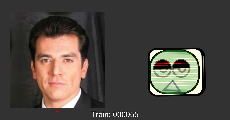
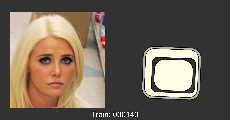
change to front view

diff --git a/face.js b/face.js
@@ -42,10 +42,10 @@ function Face() {
   this.lipColour = [136, 68, 68];
   this.eyebrowColour = [59, 95, 120];
 
-  this.screenRed = [255, 15, 115, 70];
-  this.screenGreen = [38, 145, 40, 80];
-  this.screenBlue = [15, 107, 255, 70];
-  this.colorPick = [this.screenRed, this.screenGreen, this.screenBlue];
+  this.screenRed = [255, 15, 115];
+  this.screenGreen = [38, 145, 40];
+  this.screenBlue = [15, 107, 255];
+  this.colorOption = [this.screenRed, this.screenGreen, this.screenBlue];
   this.colorSwitch = 2;
 
   
@@ -83,7 +83,7 @@ function Face() {
     rectMode(CENTER);
     
     stroke(stroke_color);
-    strokeWeight(0.14);
+    strokeWeight(0.04);
     fill(this.mainColour);
 
     push();
@@ -107,22 +107,28 @@ function Face() {
     // rect(segment_average(positions.chin)[0]+1.4, 0, 3.6, 3, 0.9);
     // rect(segment_average(positions.chin)[0]+1, 0, 3.6, 3.5, 0.5);
     push();
-    translate(this.headOffset*0.22, 0);
+    // translate(this.headOffset*0.18, 0);
     fill(184, 182, 163);
+    rect(this.headPosX, this.headPosY, this.headWidth*1.2, this.headHeight*1.25*1.2, this.roundCorner*1.2);
+    pop();
+
+    push();
+    // translate(this.headOffset*0.12, 0);
     rect(this.headPosX, this.headPosY, this.headWidth*1.1, this.headHeight*1.25*1.1, this.roundCorner);
     pop();
 
     push();
-    translate(this.headOffset*0.15, 0);
-    rect(this.headPosX, this.headPosY, this.headWidth*1.1, this.headHeight*1.25*1.1, this.roundCorner * 0.9);
+    // strokeWeight(0.1);
+    // translate(this.headOffset*0.12, 0);
+    fill(50,50,50);
+    rect(this.headPosX - this.headOffset*0.05, this.headPosY - this.headOffset*0.05, this.headWidth*0.9, this.headHeight, this.roundCorner * 0.6);
     pop();
 
     push();
-    // blendMode(HARD_LIGHT);
-    // noStroke();
-    translate(this.headOffset*0.1, 0);
+    // strokeWeight(0.1);
+    // translate(this.headOffset*0.12, 0);
     fill(this.mainColour);
-    rect(this.headPosX, this.headPosY, this.headWidth, this.headHeight*1.25, this.roundCorner * 2);
+    rect(this.headPosX - this.headOffset*0.05, this.headPosY - this.headOffset*0.05, this.headWidth*0.8, this.headHeight*0.9, this.roundCorner * 1.2);
     pop();
 
     // Draw circle helper
@@ -137,49 +143,49 @@ function Face() {
     // ellipse(this.bottomRightCorner_X,this.bottomRightCorner_Y,this.roundCorner*4);
     pop();
 
-    push();
-    translate(this.headOffset*0.1, 0);
-    strokeWeight(0.1);
-    stroke(this.colorPick[this.colorSwitch]);
-    for(i=0;i<=90;i+=6){
-      // for(j=0;j<=this.bottomLeftCorner_Y-this.topLeftCorner_Y;j+=0.5){
-      //   stroke(15, 107, 255, 70);
-      //  let a = map(j,0,this.bottomLeftCorner_Y-this.topLeftCorner_Y,65,115);
-          // line(this.topLeftCorner_X - sin(a) * this.roundCorner * 2 * 1.12, this.topLeftCorner_Y+j,
-          //  this.topRightCorner_X + this.roundCorner * 2, this.topRightCorner_Y+j*1.5);
-      //      line(this.topLeftCorner_X - this.roundCorner * 2, this.topLeftCorner_Y+j,
-      //      this.topRightCorner_X + this.roundCorner * 2, this.topRightCorner_Y+j);
-      //  }
-    line(this.topLeftCorner_X-cos(i)*this.roundCorner * 2, this.topLeftCorner_Y-sin(i)*this.roundCorner * 2,
-          this.topRightCorner_X+cos(i)*this.roundCorner * 2, this.topRightCorner_Y-sin(i)*this.roundCorner * 2);
+    // push();
+    // translate(this.headOffset*0.1, 0);
+    // strokeWeight(0.1);
+    // stroke(this.colorOption[this.colorSwitch]);
+    // for(i=0;i<=90;i+=6){
+    //   // for(j=0;j<=this.bottomLeftCorner_Y-this.topLeftCorner_Y;j+=0.5){
+    //   //   stroke(15, 107, 255, 70);
+    //   //  let a = map(j,0,this.bottomLeftCorner_Y-this.topLeftCorner_Y,65,115);
+    //       // line(this.topLeftCorner_X - sin(a) * this.roundCorner * 2 * 1.12, this.topLeftCorner_Y+j,
+    //       //  this.topRightCorner_X + this.roundCorner * 2, this.topRightCorner_Y+j*1.5);
+    //   //      line(this.topLeftCorner_X - this.roundCorner * 2, this.topLeftCorner_Y+j,
+    //   //      this.topRightCorner_X + this.roundCorner * 2, this.topRightCorner_Y+j);
+    //   //  }
+    // line(this.topLeftCorner_X-cos(i)*this.roundCorner * 2, this.topLeftCorner_Y-sin(i)*this.roundCorner * 2,
+    //       this.topRightCorner_X+cos(i)*this.roundCorner * 2, this.topRightCorner_Y-sin(i)*this.roundCorner * 2);
      
-    line(this.bottomLeftCorner_X-cos(i)*this.roundCorner * 2, this.bottomLeftCorner_Y+sin(i)*this.roundCorner * 2,
-          this.bottomRightCorner_X+cos(i)*this.roundCorner * 2, this.bottomRightCorner_Y+sin(i)*this.roundCorner * 2);
-    }
+    // line(this.bottomLeftCorner_X-cos(i)*this.roundCorner * 2, this.bottomLeftCorner_Y+sin(i)*this.roundCorner * 2,
+    //       this.bottomRightCorner_X+cos(i)*this.roundCorner * 2, this.bottomRightCorner_Y+sin(i)*this.roundCorner * 2);
+    // }
     
-    for(i=5.5;i<=12;i+=6){
-    line(this.topLeftCorner_X-cos(i)*this.roundCorner * 2, this.topLeftCorner_Y+sin(i)*this.roundCorner * 2,
-          this.topRightCorner_X+cos(i)*this.roundCorner * 2, this.topRightCorner_Y+sin(i)*this.roundCorner * 2);
+    // for(i=5.5;i<=12;i+=6){
+    // line(this.topLeftCorner_X-cos(i)*this.roundCorner * 2, this.topLeftCorner_Y+sin(i)*this.roundCorner * 2,
+    //       this.topRightCorner_X+cos(i)*this.roundCorner * 2, this.topRightCorner_Y+sin(i)*this.roundCorner * 2);
      
-    line(this.bottomLeftCorner_X-cos(i)*this.roundCorner * 2, this.bottomLeftCorner_Y-sin(i)*this.roundCorner * 2,
-          this.bottomRightCorner_X+cos(i)*this.roundCorner * 2, this.bottomRightCorner_Y-sin(i)*this.roundCorner * 2);
-    }
-    pop();
+    // line(this.bottomLeftCorner_X-cos(i)*this.roundCorner * 2, this.bottomLeftCorner_Y-sin(i)*this.roundCorner * 2,
+    //       this.bottomRightCorner_X+cos(i)*this.roundCorner * 2, this.bottomRightCorner_Y-sin(i)*this.roundCorner * 2);
+    // }
+    // pop();
 
     pop();
 
     ///////////////////////////////////////////////////////////////
 
     // mouth
-    push();
-    stroke(0, 7, 56, 100);
-    noFill();
-    point(positions.top_lip[4][0], positions.top_lip[4][1]);
-    triangle(positions.top_lip[4][0], positions.top_lip[4][1], 
-      positions.bottom_lip[0][0], positions.bottom_lip[0][1]+this.mouth_size*0.1, 
-      positions.bottom_lip[6][0], positions.bottom_lip[6][1]+this.mouth_size*0.1);
+    // push();
+    // stroke(0, 7, 56, 100);
+    // noFill();
+    // point(positions.top_lip[4][0], positions.top_lip[4][1]);
+    // triangle(positions.top_lip[4][0], positions.top_lip[4][1], 
+    //   positions.bottom_lip[0][0], positions.bottom_lip[0][1]+this.mouth_size*0.1, 
+    //   positions.bottom_lip[6][0], positions.bottom_lip[6][1]+this.mouth_size*0.1);
     
-    pop();
+    // pop();
 
     ///////////////////////////////////////////////////////////////
 
@@ -222,37 +228,37 @@ function Face() {
     ///////////////////////////////////////////////////////////////
 
     // eyes
-    push();
-    let left_eye_pos = segment_average(positions.left_eye);
-    let right_eye_pos = segment_average(positions.right_eye);
+    // push();
+    // let left_eye_pos = segment_average(positions.left_eye);
+    // let right_eye_pos = segment_average(positions.right_eye);
 
-    blendMode(BURN);
-    noFill();
-    stroke(0, 7, 56, 100);
-    let curEyeShift = 0.04 * this.eye_shift;
-    if(this.num_eyes == 2) {
-      // fill(this.detailColour);
-      ellipse(left_eye_pos[0]+0.1, positions.nose_bridge[2][1], this.headHeight*0.5, this.headHeight*0.5);
-      ellipse(right_eye_pos[0]-0.1, positions.nose_bridge[2][1], this.headHeight*0.5, this.headHeight*0.5);
+    // // blendMode(BURN);
+    // noFill();
+    // stroke(0, 7, 56);
+    // let curEyeShift = 0.04 * this.eye_shift;
+    // if(this.num_eyes == 2) {
+    //   // fill(this.detailColour);
+    //   ellipse(left_eye_pos[0]+0.1, positions.nose_bridge[2][1], this.headHeight*0.5, this.headHeight*0.5);
+    //   ellipse(right_eye_pos[0]-0.1, positions.nose_bridge[2][1], this.headHeight*0.5, this.headHeight*0.5);
 
-      ellipse(left_eye_pos[0]+0.1 + curEyeShift, positions.nose_bridge[2][1], this.headHeight*0.2);
-      ellipse(right_eye_pos[0]-0.1 + curEyeShift, positions.nose_bridge[2][1], this.headHeight*0.2);
+    //   ellipse(left_eye_pos[0]+0.1 + curEyeShift, positions.nose_bridge[2][1], this.headHeight*0.2);
+    //   ellipse(right_eye_pos[0]-0.1 + curEyeShift, positions.nose_bridge[2][1], this.headHeight*0.2);
 
-      fill(0);
-      arc(left_eye_pos[0]+0.1, positions.nose_bridge[2][1], this.headHeight*0.5, this.headHeight*0.5, 180, 360, CHORD);
-      arc(right_eye_pos[0]-0.1, positions.nose_bridge[2][1], this.headHeight*0.5, this.headHeight*0.5, 180, 360, CHORD);
-    }
-    else {
-      let eyePosX = (left_eye_pos[0] + right_eye_pos[0]) / 2;
-      let eyePosY = (left_eye_pos[1] + right_eye_pos[1]) / 2;
+    //   fill(0);
+    //   arc(left_eye_pos[0]+0.1, positions.nose_bridge[2][1], this.headHeight*0.5, this.headHeight*0.5, 180, 360, CHORD);
+    //   arc(right_eye_pos[0]-0.1, positions.nose_bridge[2][1], this.headHeight*0.5, this.headHeight*0.5, 180, 360, CHORD);
+    // }
+    // else {
+    //   let eyePosX = (left_eye_pos[0] + right_eye_pos[0]) / 2;
+    //   let eyePosY = (left_eye_pos[1] + right_eye_pos[1]) / 2;
 
-      fill(this.detailColour);
-      ellipse(eyePosX, eyePosY, 0.45, 0.27);
+    //   fill(this.detailColour);
+    //   ellipse(eyePosX, eyePosY, 0.45, 0.27);
 
-      fill(this.mainColour);
-      ellipse(eyePosX - 0.1 + curEyeShift, eyePosY, 0.18);
-    }
-    pop();
+    //   fill(this.mainColour);
+    //   ellipse(eyePosX - 0.1 + curEyeShift, eyePosY, 0.18);
+    // }
+    // pop();
     ///////////////////////////////////////////////////////////////
 
     // nose
@@ -305,7 +311,7 @@ function Face() {
   /* get internal properties as list of numbers 0-100 */
   this.getProperties = function() {
     let settings = new Array(3);
-    settings[0] = map(this.colorPick, 0, 2, 0, 100);
+    settings[0] = map(this.colorOption, 0, 2, 0, 100);
     settings[1] = map(this.eye_shift, -2, 2, 0, 100);
     settings[2] = map(this.mouth_size, 0.5, 8, 0, 100);
 

diff --git a/index.html b/index.html
@@ -48,7 +48,7 @@
         <div class="inner" id="controls" height="500">
             <table>
                 <tr>
-                    <td>setting 1</td>
+                    <td>Face Color</td>
                     <td id="slider1Container"></td>
                 </tr>
                 <tr>

diff --git a/README.md b/README.md
@@ -2,4 +2,4 @@
 [![Open in Visual Studio Code](https://classroom.github.com/assets/open-in-vscode-718a45dd9cf7e7f842a935f5ebbe5719a5e09af4491e668f4dbf3b35d5cca122.svg)](https://classroom.github.com/online_ide?assignment_repo_id=11103452&assignment_repo_type=AssignmentRepo)
 ## 2023 MDDN342 Assignment 3: Data Mappings
 
-I'm using thick stroke weight for a cartoonish look, as well as for the CRT screen. Three colours can be switched. 
+I've changed my mind. I'll draw the front view of the face and using solid colour with more details of the CRT head. Also I'll make the face more a TV set, as I can add knobs on it.
